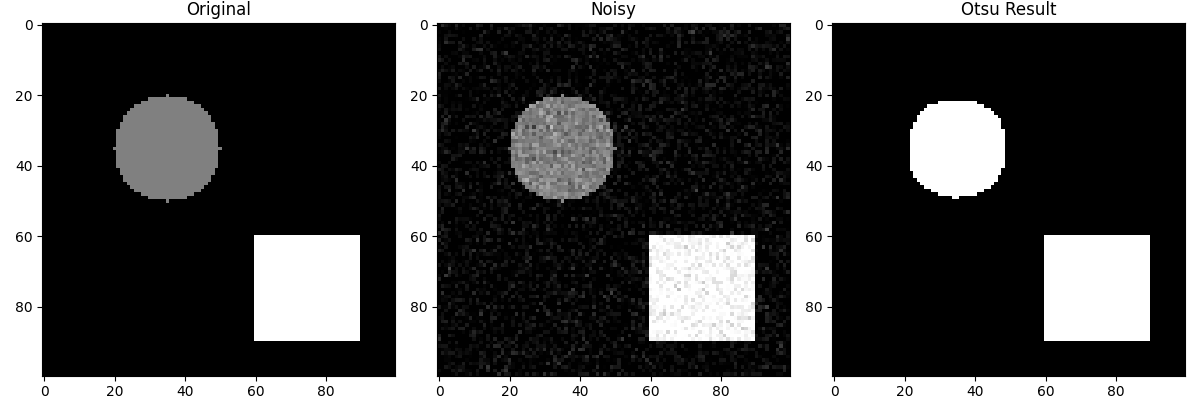
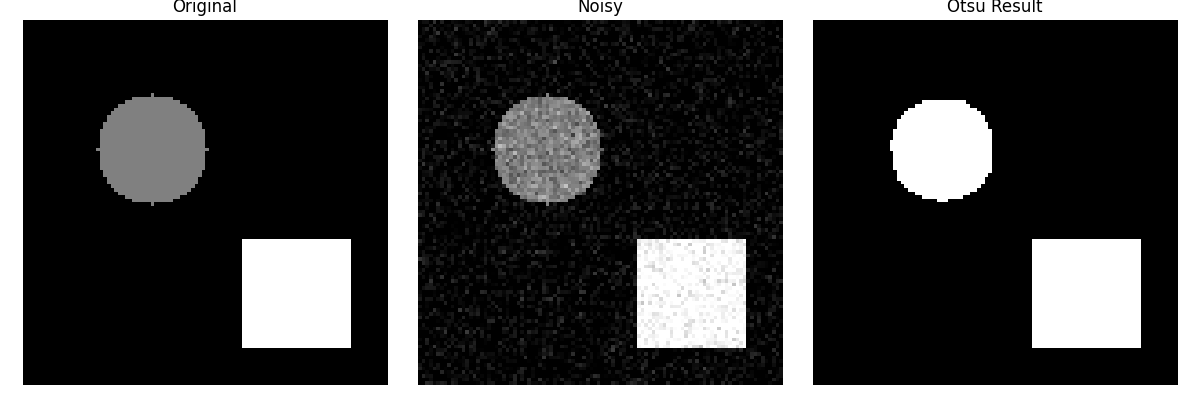
updated the code

diff --git a/Q1.py b/Q1.py
@@ -38,14 +38,17 @@ plt.figure(figsize=(12, 4))
 plt.subplot(1, 3, 1)
 plt.title("Original")
 plt.imshow(img, cmap='gray')
+plt.axis("off")
 
 plt.subplot(1, 3, 2)
 plt.title("Noisy")
 plt.imshow(noisy_img, cmap='gray')
+plt.axis("off")
 
 plt.subplot(1, 3, 3)
 plt.title("Otsu Result")
 plt.imshow(otsu_thresh, cmap='gray')
+plt.axis("off")
 
 plt.tight_layout()
 plt.savefig('images/otsu_results.png')

diff --git a/Q2.py b/Q2.py
@@ -54,10 +54,12 @@ plt.figure(figsize=(8, 4))
 plt.subplot(1, 2, 1)
 plt.title("Original Image")
 plt.imshow(original_img, cmap='gray')
+plt.axis("off")
 
 plt.subplot(1, 2, 2)
 plt.title("Region Grown")
 plt.imshow(region_result, cmap='gray')
+plt.axis("off")
 
 plt.tight_layout()
 plt.savefig('images/region_growing_results.png')
